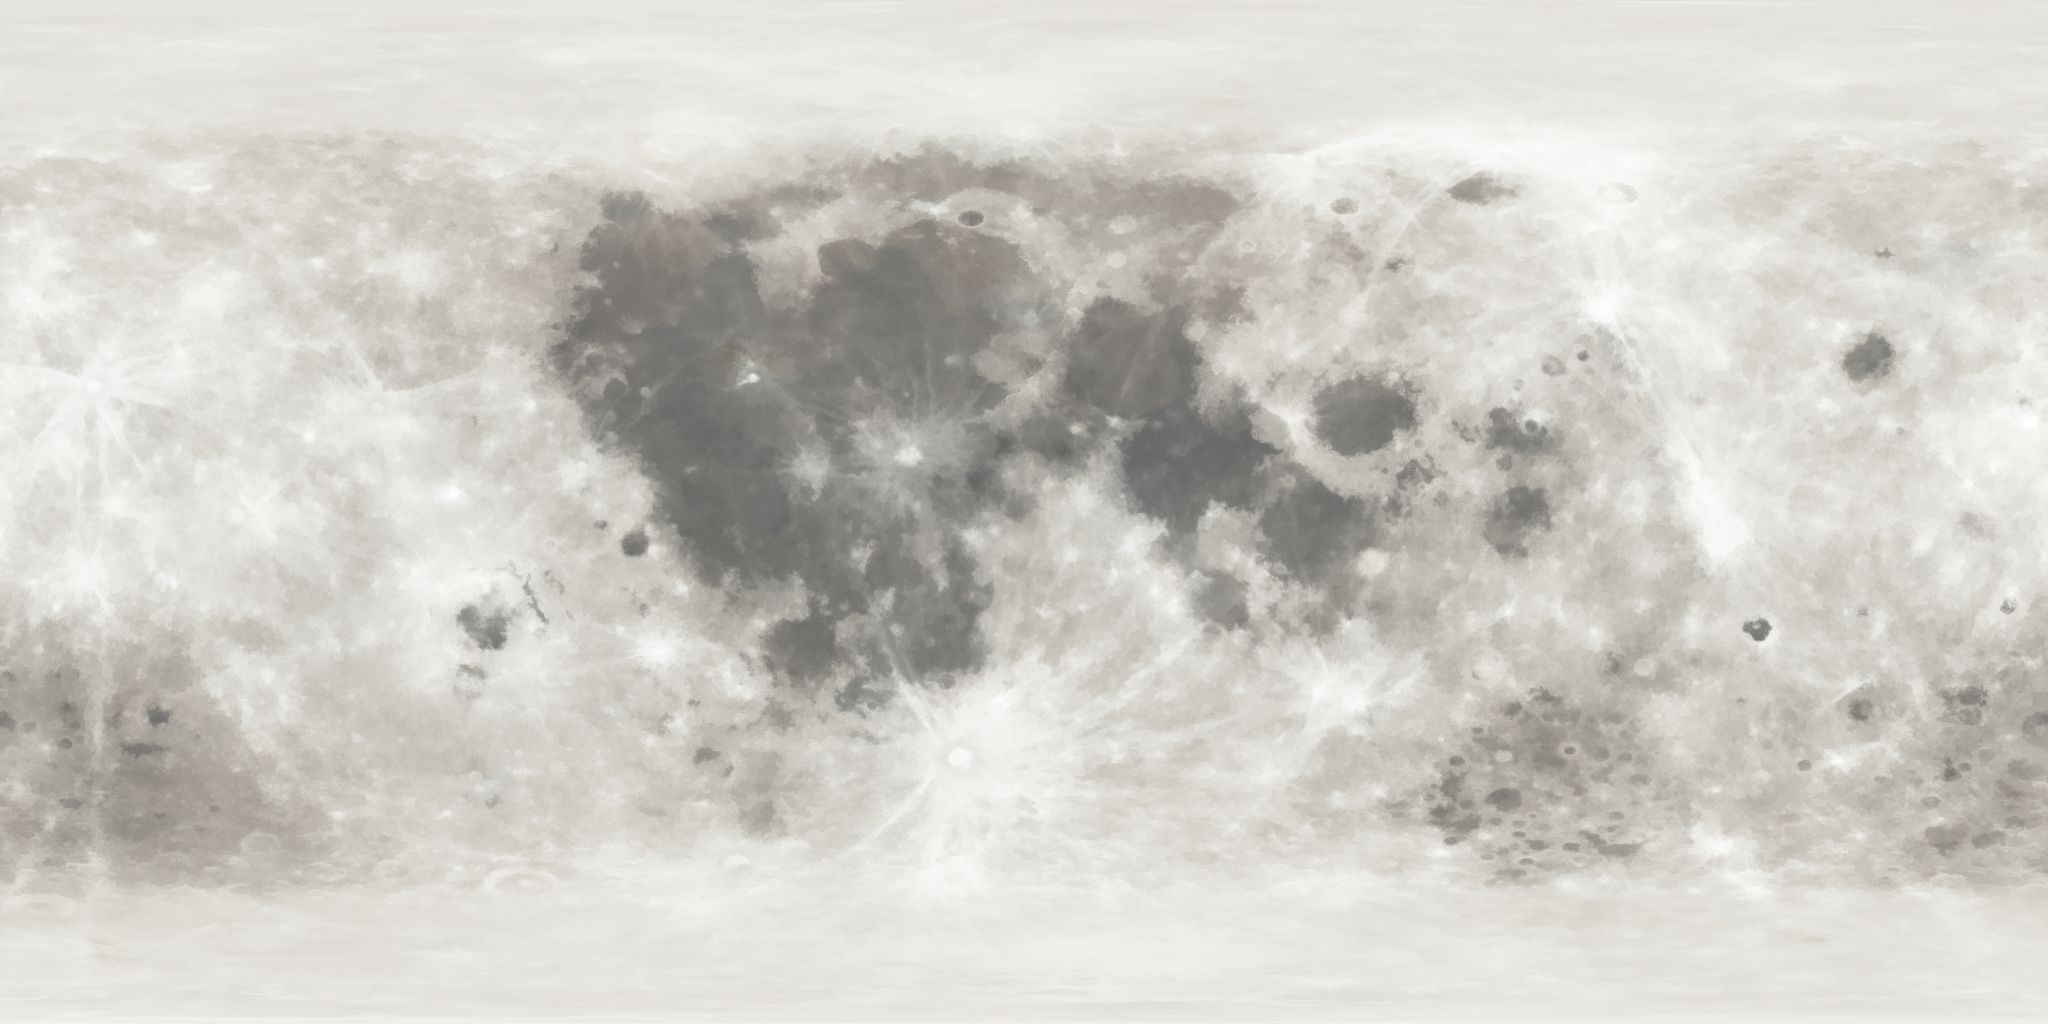
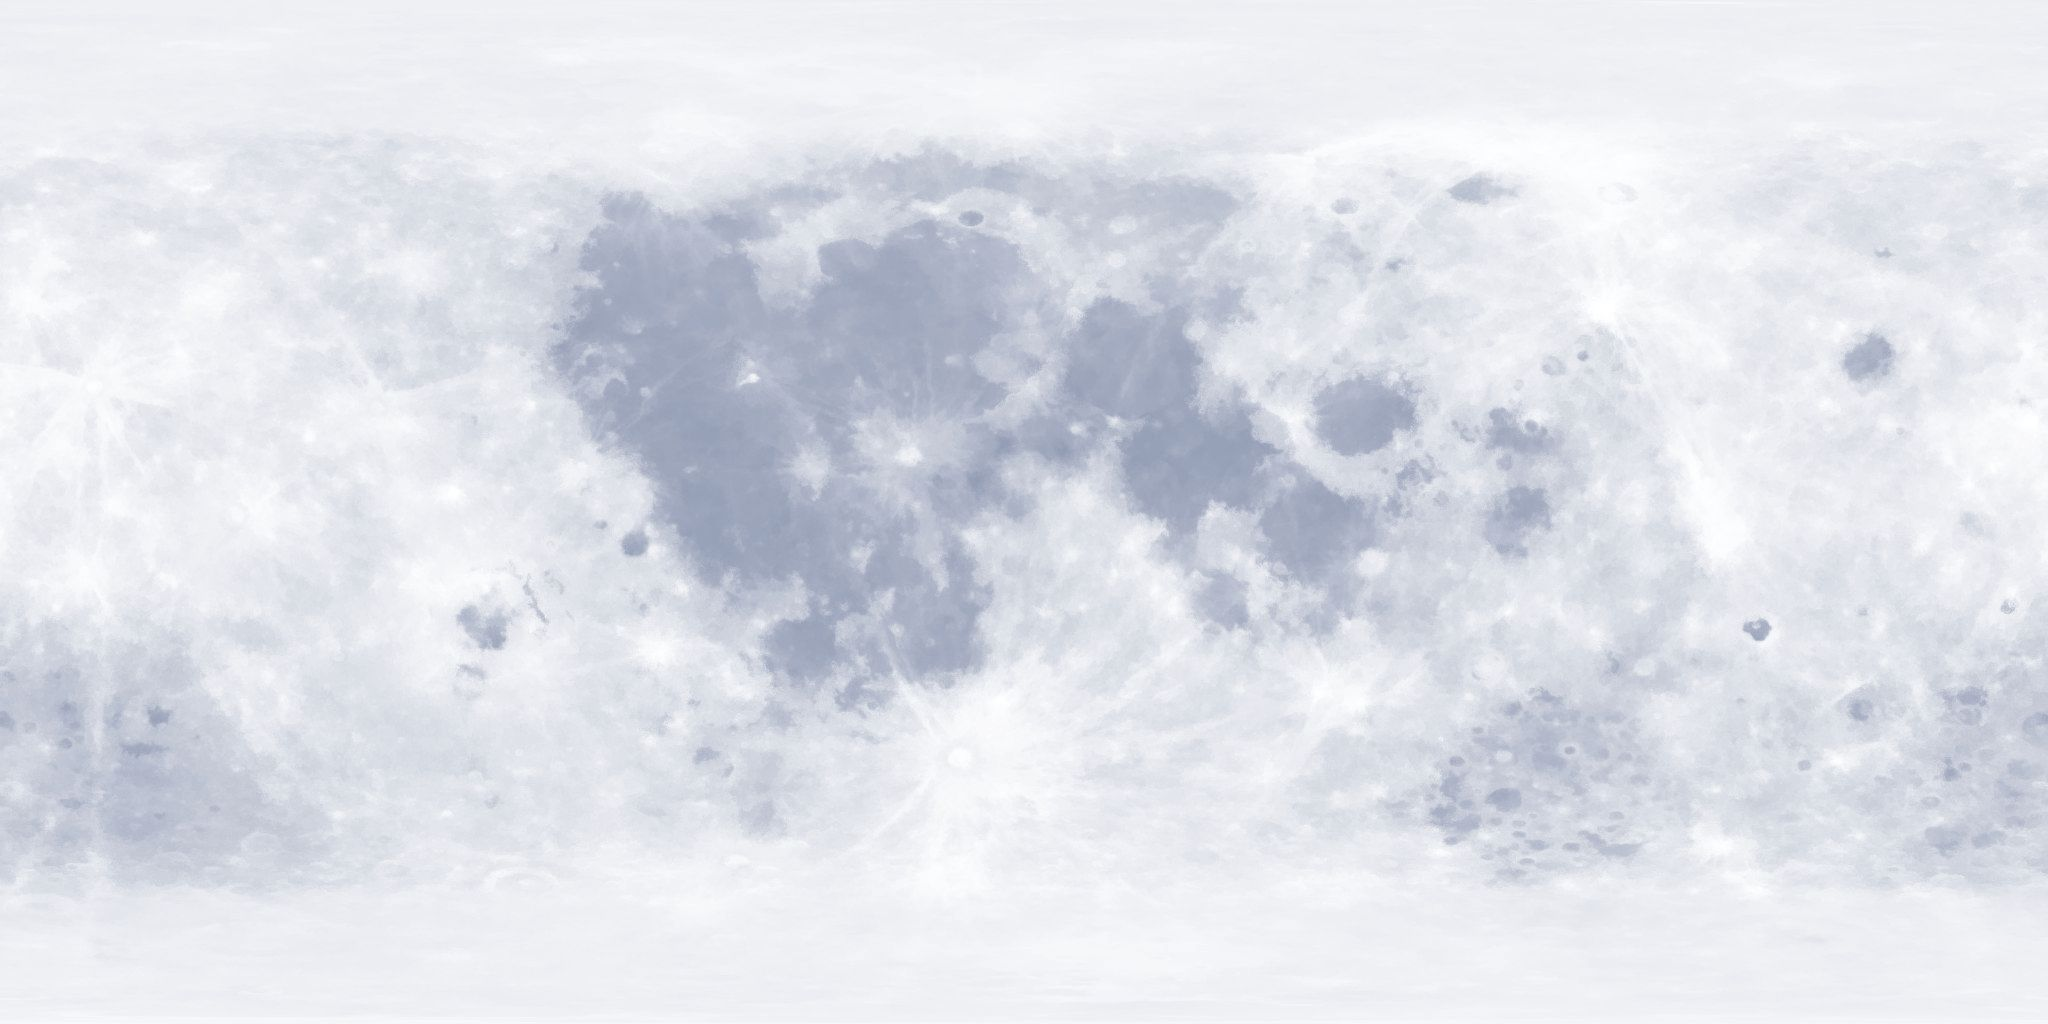
okay

diff --git a/CameraOverhaul.cs b/CameraOverhaul.cs
@@ -24,9 +24,7 @@ using Timberborn.MapStateSystem;
 using Timberborn.ModManagerScene;
 using Timberborn.SkySystem;
 using Timberborn.TimeSystem;
-using System;
 using System.Reflection;
-using UnityEngine.UI;
 
 public class CameraOverhaul : IModStarter
 {
@@ -80,15 +78,31 @@ class Cam(
 	CameraService cameraService,
 	ISpecService specService,
 	MapSize mapSize
-): ILoadableSingleton {
+): ILoadableSingleton, ILateUpdatableSingleton {
 	CameraServiceSpec cameraServiceSpec = null!;
-	//GameObject crosshair = Utility.crosshair();
+	GameObject crosshair = Utility.crosshair(PrimitiveType.Sphere, Color.white);
+	GameObject ground = null!;
+
 	public void Load() {
 		Debug.Log("Cam.Load");
 		cameraServiceSpec = specService.GetSingleSpec<CameraServiceSpec>();
 		cameraService._camera.farClipPlane = 2 * 1000f;
 		RenderSettings.fog = false;
+		cameraService.FreeMode = true;
+
+		ground = GameObject.CreatePrimitive(PrimitiveType.Quad);
+		ground.layer = Layers.IgnoreRaycastMask;
+		var material = new Material(Shader.Find("Universal Render Pipeline/Unlit"));
+		material.color = Color.black;
+		ground.GetComponent<Renderer>().material = material;
+		ground.transform.localRotation = Quaternion.Euler(0 - 90, 0, 0);
 	}
+
+	public void LateUpdateSingleton() {
+		ground.transform.localPosition = new Vector3(mapSize.TerrainSize.x / 2, 0 - 1.15f, mapSize.TerrainSize.y / 2);
+		ground.transform.localScale = new Vector3(mapSize.TerrainSize.x, mapSize.TerrainSize.y, 1);
+	}
+
 	public Camera camera => cameraService._camera;
 	public float distance {
 		get => (
@@ -103,22 +117,47 @@ class Cam(
 			0
 		);
 		set {
-			cameraService.VerticalAngle = Vector3.Angle(value * Vector3.up, Vector3.up);
+			Debug.Log("value " + value * Vector3.forward);
+			Debug.Log("angle " + (Vector3.Angle(value * Vector3.forward, Vector3.up) - 90));
+			cameraService.VerticalAngle = Vector3.Angle(value * Vector3.forward, Vector3.up) - 90;
 			cameraService.HorizontalAngle = value.eulerAngles.y;
 		}
 	}
 	public Vector3 position {
 		get => cameraService.Target + rotation * Vector3.back * distance;
 		set {
+			var mapCenter = new Vector3(mapSize.TerrainSize.x * 0.5f, 0, mapSize.TerrainSize.y * 0.5f);
 			var ray = new Ray(value, rotation * Vector3.forward);
-			var plane = new Plane(Vector3.up, 0);
-			plane.Raycast(ray, out var offset);
-			var point = ray.GetPoint(offset);
-			cameraService.Target = point;
+
+			var planeArray = new Plane[] {
+				new Plane(Vector3.up, 0),
+				new Plane(Vector3.left, 0 - CameraService.FreeModeMapMargin),
+				new Plane(Vector3.left, mapSize.TerrainSize.x + CameraService.FreeModeMapMargin),
+				new Plane(Vector3.back, 0 - CameraService.FreeModeMapMargin),
+				new Plane(Vector3.back, mapSize.TerrainSize.y + CameraService.FreeModeMapMargin)
+			};
+
+			var minimumDistance = float.PositiveInfinity;
+			var mostCentralPoint = mapCenter;
+			var mostCentralPointOffset = 20f;
+			for (var i = 0; i < planeArray.Length; i++) {
+				if (planeArray[i].Raycast(ray, out var offset)) {
+					var point = ray.GetPoint(offset);
+					var distance = Vector3.Distance(mapCenter, point);
+					if (distance < minimumDistance) {
+						mostCentralPoint = point;
+						mostCentralPointOffset = offset;
+						minimumDistance = distance;
+					}
+				}
+			}
+
+			crosshair.transform.localPosition = mostCentralPoint;
+			cameraService.Target = mostCentralPoint;
 			//Debug.Log("point " + point);
 
 			var zoomLevel = Mathf.Log(
-				offset / cameraServiceSpec!.BaseDistance,
+				mostCentralPointOffset / cameraServiceSpec!.BaseDistance,
 				cameraServiceSpec!.ZoomBase
 			);
 			cameraService.ZoomLevel = zoomLevel;
@@ -131,14 +170,13 @@ class Sky(
 	Cam cam,
 	Sun sunService,
 	MapSize mapSize,
-	DayStageCycle dayStageCycle,
-	InputService inputService
+	DayStageCycle dayStageCycle
 ): ILoadableSingleton, ILateUpdatableSingleton {
 	GameObject upCrosshair = Utility.crosshair(
 		PrimitiveType.Cylinder,
 		Color.violet,
 		transform => {
-			transform.localScale = new Vector3(1, 100, 1);
+			transform.localScale = new Vector3(0.1f, 100, 0.1f);
 			transform.localPosition = new Vector3(0, 100, 0);
 		}
 	);
@@ -146,7 +184,7 @@ class Sky(
 		PrimitiveType.Cylinder,
 		Color.red,
 		transform => {
-			transform.localScale = new Vector3(1, 100, 1);
+			transform.localScale = new Vector3(0.1f, 100, 0.1f);
 			transform.localPosition = new Vector3(0, 100, 0);
 		}
 	);
@@ -154,7 +192,7 @@ class Sky(
 		PrimitiveType.Cylinder,
 		Color.orange,
 		transform => {
-			transform.localScale = new Vector3(1, 100, 1);
+			transform.localScale = new Vector3(0.1f, 100, 0.1f);
 			transform.localPosition = new Vector3(0, 100, 0);
 		}
 	);
@@ -162,7 +200,7 @@ class Sky(
 		PrimitiveType.Cylinder,
 		Color.yellow,
 		transform => {
-			transform.localScale = new Vector3(1, 100, 1);
+			transform.localScale = new Vector3(0.1f, 100, 0.1f);
 			transform.localPosition = new Vector3(0, 100, 0);
 		}
 	);
@@ -170,34 +208,33 @@ class Sky(
 		PrimitiveType.Cylinder,
 		Color.green,
 		transform => {
-			transform.localScale = new Vector3(1, 100, 1);
+			transform.localScale = new Vector3(0.1f, 100, 0.1f);
 			transform.localPosition = new Vector3(0, 100, 0);
 		}
 	);
-	GameObject sun = Icosphere.Create(3);
-	GameObject moon = Icosphere.Create(4);
-	GameObject moonClip = Icosphere.Create(4);
+	GameObject sun = null!;
+	GameObject moon = null!;
 	public void Load() {
 		Debug.Log("Sky.Load");
 
-		sun.transform.localScale = new Vector3(40, 40, 40);
+		sun = Icosphere.Create(3, 30);
 		sun.layer = Layers.IgnoreRaycastMask;
 		var sunMaterial = new Material(Shader.Find("Universal Render Pipeline/Unlit"));
 		sunMaterial.color = new Color(230 / 255f, 220 / 255f, 140 / 255f);
 		sun.AddComponent<MeshRenderer>().material = sunMaterial;
 
-		/*var stream = Assembly.GetExecutingAssembly().GetManifestResourceStream("CameraOverhaul.moon.jpg");
+		var stream = Assembly.GetExecutingAssembly().GetManifestResourceStream("CameraOverhaul.moon.jpg");
 		var tex = new Texture2D(1, 1);
 		var bytes = new byte[stream.Length];
 		stream.Read(bytes);
 		tex.LoadImage(bytes);
-		stream.Dispose();*/
+		stream.Dispose();
 
-		moon.transform.localScale = new Vector3(30, 30, 30);
+		moon = Icosphere.Create(4, 22.5f, Quaternion.Euler(0, 0, tiltAngle));
 		moon.layer = Layers.IgnoreRaycastMask;
 		var moonMaterial = new Material(Shader.Find("Universal Render Pipeline/Unlit"));
 		moonMaterial.color = new Color(230 / 255f, 220 / 255f, 200 / 255f);
-		//moonMaterial.mainTexture = tex;
+		moonMaterial.mainTexture = tex;
 		moon.AddComponent<MeshRenderer>().material = moonMaterial;
 	}
 
@@ -211,17 +248,16 @@ class Sky(
 	// assume permanant summer solstice lol
 
 	void Render() {
-		var cameraCenter = new Vector3(cam.position.x, 0, cam.position.z);
 		var mapCenter = new Vector3(mapSize.TerrainSize.x * 0.5f, 10, mapSize.TerrainSize.y * 0.5f);
+		var cameraCenter = /*mapCenter*/new Vector3(cam.position.x, 0, cam.position.z);
 
 		var dayProgress = (
 			dayNightCycle.DayNumber +
 			dayNightCycle.FluidSecondsPassedToday / dayNightCycle.ConfiguredDayLengthInSeconds
 		);
-		//dayProgress *= 50;
+		//dayProgress *= 30;
 
-		var spinAngle = (dayProgress + 3 / 24f) * 360f;
-		//var moonAngle = (dayProgress - 7 / 24f) * 360f;
+		var solarAngle = (dayProgress + 3.5f / 24f) * 360f;
 
 		var up = Quaternion.LookRotation(Vector3.up);
 		upCrosshair.transform.localPosition = mapCenter;
@@ -235,30 +271,44 @@ class Sky(
 		planetaryNorthCrosshair.transform.localPosition = mapCenter;
 		planetaryNorthCrosshair.transform.localRotation = planetaryNorth * Quaternion.Euler(90, 0, 0);
 
-		var solarRotation = planetaryNorth * Quaternion.Euler(0, 0, spinAngle) * Quaternion.Euler(90 - tiltAngle, 0, 0);
+		var solarRotation = planetaryNorth * Quaternion.Euler(0, 0, solarAngle) * Quaternion.Euler(90 - tiltAngle, 0, 0);
 		solarRotationCrosshair.transform.localPosition = mapCenter;
 		solarRotationCrosshair.transform.localRotation = solarRotation * Quaternion.Euler(90, 0, 0);
 		var sunVector = solarRotation * Vector3.forward;
 
-		var lunarAngle = spinAngle * 29 / 28 + 90;
+		var lunarAngle = solarAngle * 29 / 28 + 180;
+		//lunarAngle *= 3;
 		var lunarRotation = planetaryNorth * Quaternion.Euler(0, 0, lunarAngle) * Quaternion.Euler(90, 0, 0);
 		lunarRotationCrosshair.transform.localPosition = mapCenter;
 		lunarRotationCrosshair.transform.localRotation = lunarRotation * Quaternion.Euler(90, 0, 0);
 		var moonVector = lunarRotation * Vector3.forward;
 
-		//sun.transform.localRotation = solarRotation * Quaternion.Euler(0, 90, 0);
+		sun.transform.localRotation = solarRotation * Quaternion.Euler(0, 90, 0);
 		sun.transform.localPosition = cameraCenter + sunVector * 800f;
 		moon.transform.localPosition = cameraCenter + moonVector * 600f;
 		moon.transform.localRotation = solarRotation * Quaternion.Euler(0, 0 - 90, 0);
-		/*moon.GetComponent<MeshRenderer>().material.mainTextureOffset = (
-			Quaternion.Inverse(solarRotation * Quaternion.Euler(0, 0 - 90, 0)) *
-			new Vector2(1, 1)
-		);*/
+		moon.GetComponent<MeshRenderer>().material.mainTextureOffset = (
+			new Vector2((lunarAngle - solarAngle) / 360 + 0.5f, 0)
+		);
 
 		var transition = sunService._dayStageCycle.GetCurrentTransition();
 		sunService.UpdateColors(transition);
-		//sunService._sun.intensity *= Math.Max(sunVector.y, 0) * 1.5f;
-		sunService._sun.transform.localRotation = Quaternion.LookRotation(Vector3.zero - sunVector);
+
+		if (sunVector.y > 0) {
+			var sunRelevance = Mathf.Clamp(sunVector.y * 10, 0, 1);
+			sunService._sun.intensity *= sunRelevance;
+			sunService._sun.transform.localRotation = Quaternion.LookRotation(Vector3.zero - sunVector);
+		} else if (moonVector.y > 0) {
+			var moonRelevance = (
+				Vector3.Angle(sunVector, moonVector) / 180 *
+				Mathf.Clamp(0 - sunVector.y * 10, 0, 1)
+			);
+			sunService._sun.intensity = moonRelevance * 0.5f;
+			sunService._sun.transform.localRotation = Quaternion.LookRotation(Vector3.zero - moonVector);
+			sunService._sun.color = Color.white;
+		} else {
+			sunService._sun.intensity = 0;
+		}
 
 		/*sunService._sun.transform.localRotation = Quaternion.LookRotation(Vector3.zero - sunVector(
 			sunVector.y > 0 ?
@@ -291,7 +341,6 @@ class Nav(
 		Debug.Log("Nav.Load");
 		inputService.AddInputProcessor(this);
 		cameraServiceSpec = specService.GetSingleSpec<CameraServiceSpec>();
-		cameraService.FreeMode = true;
 	}
 	
 	void TerrainHit(Ray worldRay, out Vector3? worldHit, out float worldDistance) {
@@ -383,15 +432,15 @@ class Nav(
 			} else {
 				// continue orbit
 				var screenDistance = screenPoint - orbitOriginalScreenPoint!.Value;
-				var originalVertical = Vector3.Angle(orbitOriginalCameraRotation!.Value * Vector3.up, Vector3.up);
+				var originalVertical = Vector3.Angle(orbitOriginalCameraRotation!.Value * Vector3.forward, Vector3.up) - 90;
 				//Debug.Log("original " + originalVertical);
 				var freeAngleDelta = (
 					Quaternion.Euler(0, screenDistance.x * 0.1f, 0) *
 					orbitOriginalCameraRotation!.Value *
 					Quaternion.Euler(Mathf.Clamp(
 						0 - screenDistance.y * 0.1f,
-						cameraServiceSpec!.VerticalAngleLimits.Min * 0.125f - originalVertical,
-						90 - originalVertical
+						0 - 90 - originalVertical + float.Epsilon,
+						90 - originalVertical - float.Epsilon
 					), 0, 0) *
 					Quaternion.Inverse(orbitOriginalCameraRotation!.Value)
 				);
@@ -426,9 +475,9 @@ class Nav(
 		}
 		if (!inputService.MouseOverUI && inputService.MouseZoom != 0) {
 			var zoomFactor = 1 - inputService.MouseZoom * 1f;
-			var minCameraDistance = 0f;
+			var minCameraDistance = float.Epsilon;
 			var maxCameraDistance = (
-				Mathf.Pow(cameraServiceSpec!.ZoomBase, cameraServiceSpec.MapEditorZoomLimits.Max * 3f) *
+				Mathf.Pow(cameraServiceSpec!.ZoomBase, cameraServiceSpec.MapEditorZoomLimits.Max * 2f) *
 				cameraServiceSpec!.BaseDistance
 			);
 			var clampedZoomFactor = Mathf.Clamp(

diff --git a/Library.cs b/Library.cs
@@ -1,5 +1,7 @@
 class Icosphere {
-	public static GameObject Create(int recursionLevel, float radius = 1f) {
+	public static GameObject Create(int recursionLevel, float radius = 1f, Quaternion? maybeTextureTilt = null) {
+		Quaternion textureTilt = maybeTextureTilt ?? Quaternion.identity;
+
 		Vector3[] verts;
 		int[] tris;
 		Vector2[] uvs;
@@ -60,20 +62,33 @@ class Icosphere {
 		}
 
 		verts = vList.ToArray();
-		tris = new int[faces.Count * 3];
-		for (int i = 0; i < faces.Count; i++)
+
+		var keptFaces = new System.Collections.Generic.List<int[]>();
+		foreach (var f in faces)
 		{
-			tris[i * 3 + 0] = faces[i][0];
-			tris[i * 3 + 1] = faces[i][1];
-			tris[i * 3 + 2] = faces[i][2];
+			if (vList[f[0]].x < 0.01f || vList[f[1]].x < 0.01f || vList[f[2]].x < 0.01f)
+				continue;
+			keptFaces.Add(f);
+		}
+
+		tris = new int[keptFaces.Count * 3];
+		for (int i = 0; i < keptFaces.Count; i++)
+		{
+			tris[i * 3 + 0] = keptFaces[i][0];
+			tris[i * 3 + 1] = keptFaces[i][1];
+			tris[i * 3 + 2] = keptFaces[i][2];
 		}
 
 		uvs = new Vector2[verts.Length];
 		for (int i = 0; i < verts.Length; i++)
 		{
 			Vector3 n = verts[i].normalized;
-			float u = 0.5f + (Mathf.Atan2(n.z, n.x) / (2f * Mathf.PI));
-			float v = 0.5f - (Mathf.Asin(n.y) / Mathf.PI);
+
+			// rotate the direction vector in 3D to tilt the texture mapping
+			Vector3 nTilted = textureTilt * n;
+
+			float u = 0.5f + (Mathf.Atan2(nTilted.z, nTilted.x) / (2f * Mathf.PI));
+			float v = (Mathf.Asin(nTilted.y) / Mathf.PI) - 0.5f;
 			uvs[i] = new Vector2(u, v);
 		}
 
